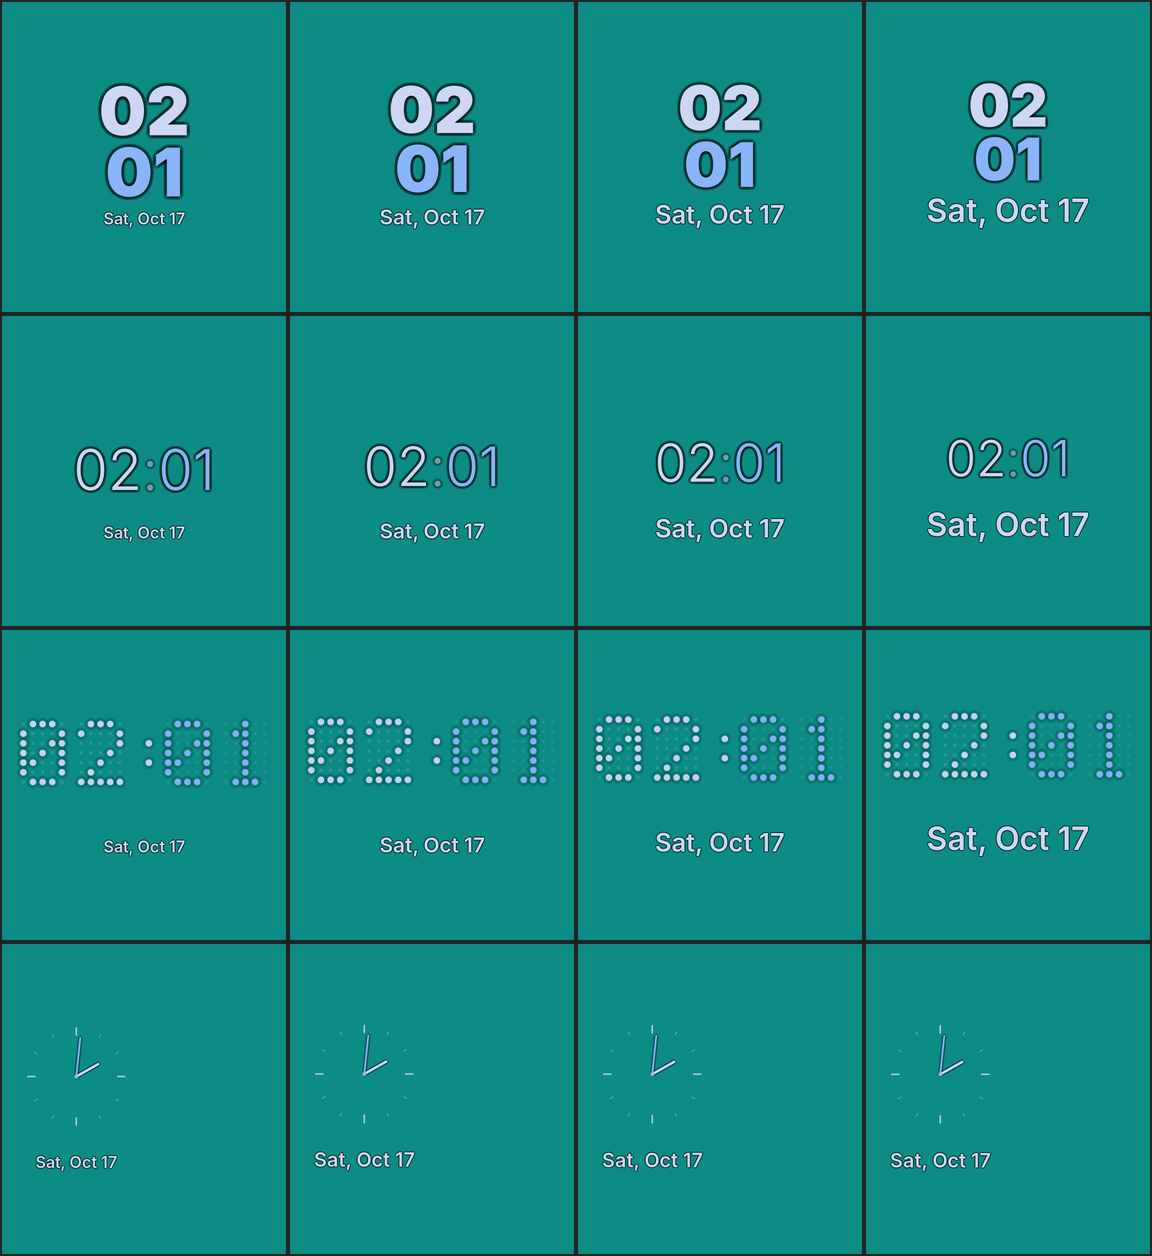
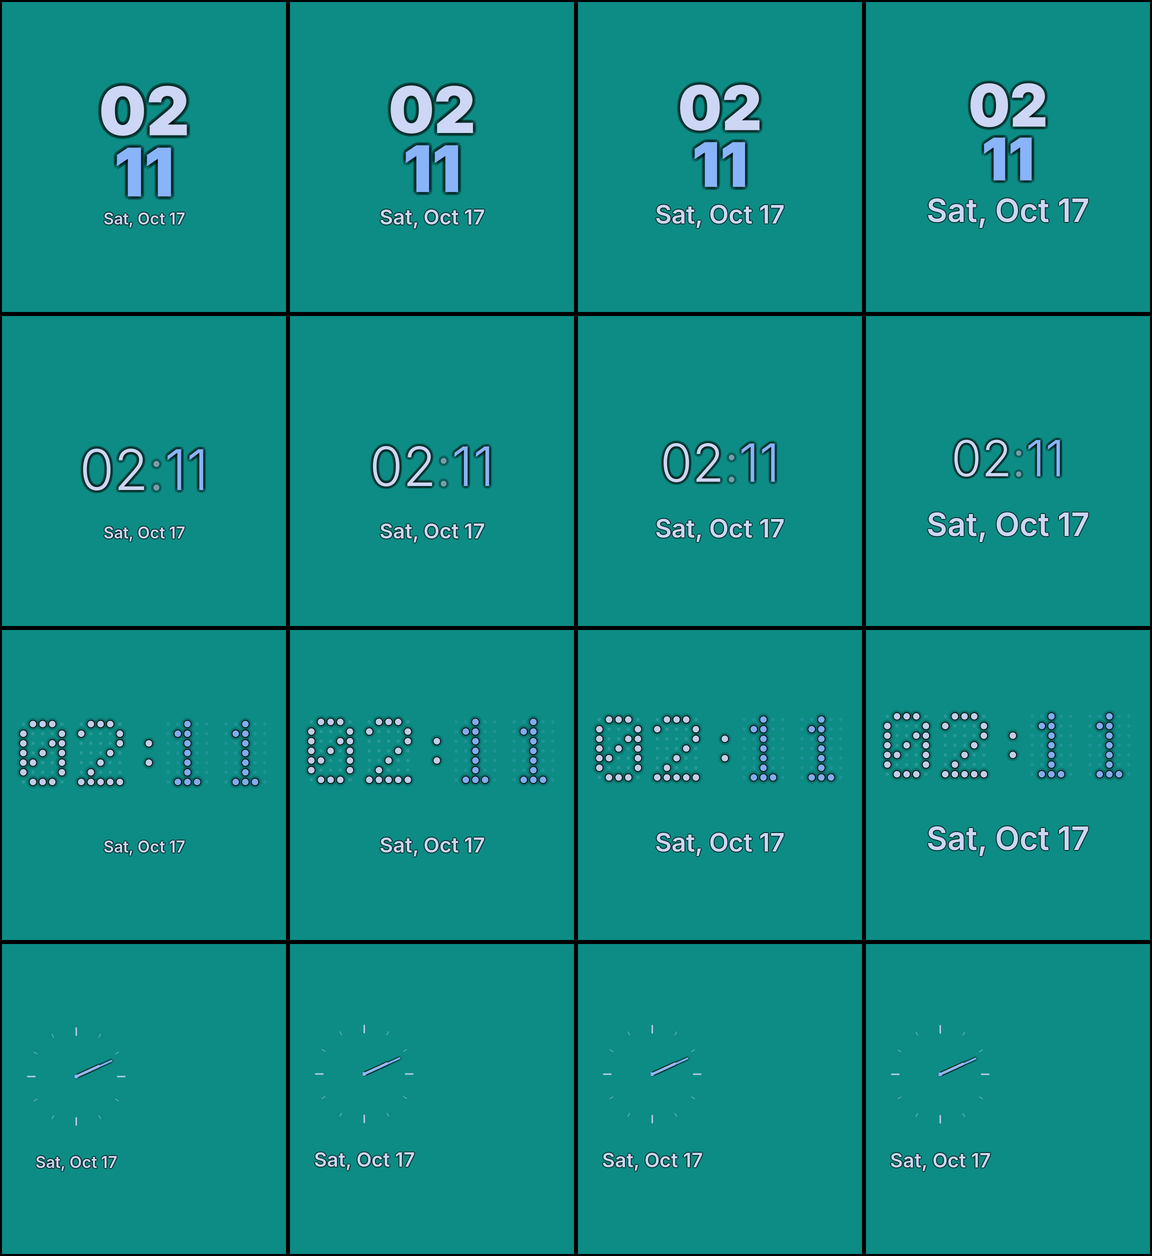
Clock dot matrix: a halo-colour ring on each lit dot (visual language 1.4)
Over the retro-82 vinyl the orange minute dots vanished into the orange
label. A crisp ring in the halo colour keeps them apart, like the Bubble
outline. The three host sheets are re-rendered from the same generations.

diff --git a/nix/rust-shell-client/src/render.rs b/nix/rust-shell-client/src/render.rs
@@ -4047,6 +4047,13 @@ fn draw_dot_matrix_glyph(cr: &Context, rows: &[&str], cols: usize, x0: f64, y0: 
                 continue;
             }
             draw_soft_backdrop(cr, cx, cy, radius * 1.9, glow, 0.16);
+            // A crisp ring in the halo colour keeps a lit dot apart from a
+            // wallpaper of its own hue (the accent minute over an orange
+            // label), the way the Bubble digits keep their outline.
+            cr.new_path();
+            cr.arc(cx, cy, radius + (pitch * 0.1).max(1.5), 0.0, std::f64::consts::TAU);
+            color(cr, glow, 0.8);
+            let _ = cr.fill();
             cr.new_path();
             cr.arc(cx, cy, radius, 0.0, std::f64::consts::TAU);
             color(cr, rgb, 0.95);

diff --git a/docs/blob-inventory.md b/docs/blob-inventory.md
@@ -1678,9 +1678,9 @@ DATA ee2ee568349d2934b8b8c6950b9278d9b0f41203f6b71ced033796e4bcbc8974 docs/evide
 DATA a030cb1e75d983468dc23384351c0c4c411dac03ff5db25022e8f62bf3cf37c2 docs/evidence/clock-restyle/host-160-before-after.png
 DATA e590ff3c14c7c08eeba6acc7ec745eb5f63e4e0b0ad46a88ecdad3d0903069ad docs/evidence/clock-restyle/host-200-before-after.png
 DATA 9e258d5a07a483381d428302c67f39a9d8a799d94461e51d1ea4a86604f27f22 docs/evidence/clock-restyle/host-200-high-before-after.png
-DATA 8ef2262820967a6860dc429672f3b6de4b8b47fafa20e2f506843eeb06818bdb docs/evidence/clock-restyle/host-latte.png
-DATA d7c879ee3f5f9a7a625d015ecba9a7e4daaff9db7949ef6ba11ba48619643ce0 docs/evidence/clock-restyle/host-portrait-steps.png
-DATA 214a3187ff02f0662ca4a963ad35198af695f785889764a2d318920defad2585 docs/evidence/clock-restyle/host-retro82-wallpaper.png
+DATA 928965287512f34e9111f2428f00d97aed21ba3668557aed880f1d87cf336439 docs/evidence/clock-restyle/host-latte.png
+DATA 8e3fc56d90f9fb9b02d709dec1384e37a0b07dc2c6574334f2f3bcb80f0b5db8 docs/evidence/clock-restyle/host-portrait-steps.png
+DATA c8862c1934628c68c99651f932dc05a6078b6a9e1504ef8d2b5df9de63e1e177 docs/evidence/clock-restyle/host-retro82-wallpaper.png
 DATA eb97830d3b2c407b8a1a9559f4547c5faf30a528c36085c065ede0d2971e5eb6 docs/evidence/coherent-shell/accessibility-scale/board/01-settings.png
 DATA 067bdb088d7d3b137a2586058819ab40830bef98aab4bf2daca440413794e7a6 docs/evidence/coherent-shell/accessibility-scale/board/02-vision-default.png
 DATA 1052f94fa56517b0116ce10500455c31e71e37504080bdea57fe91a6eff8d4f1 docs/evidence/coherent-shell/accessibility-scale/board/03-large.png
@@ -2398,9 +2398,9 @@ limits are in the adjacent README. They are not physical-panel captures.
[12 lines of base64/hex data omitted]

diff --git a/docs/evidence/clock-restyle/README.md b/docs/evidence/clock-restyle/README.md
@@ -137,13 +137,19 @@ What the images show:
 - Portrait: all four styles fit the 568 px width at every step; no clipping.
   The dot-matrix clock nearly fills the width at 200%. The date grows with the
   step. The analog clock is small and sits left in its cell in portrait.
-- retro-82 over the vinyl: the Bubble and Thin minutes in the orange accent
-  stay readable because of the dark halo, including over the orange label.
-  The dot-matrix minute is the weak case: its orange dots over the orange
-  label have little contrast against the backdrop (only the faint halo rings
-  separate them), and they get worse where they cross the spindle. The hour and
-  date in cream read well. The Thin minute at 200% is thin and reads only by
-  its halo outline.
+- retro-82 over the vinyl:
+  - The Bubble and Thin minutes, in the orange accent, stay readable because
+    of the dark halo, including over the orange label. The Thin minute at
+    200% is thin and reads mainly by its halo outline.
+  - The first renders showed the dot-matrix minute as the weak case: orange
+    dots over the orange label, separated only by faint soft halos.
+    `draw_dot_matrix_glyph` now gives each lit dot a crisp ring in the halo
+    colour (`pitch * 0.1`, at least 1.5 px, at 80%). The re-rendered sheet
+    shows the minute dots outlined and legible at every step, including
+    where they cross the spindle.
+  - The analog style's cream hour ticks are faint over the orange label;
+    its hands keep their halo and read.
+  - The hour and date, in cream, read well.
 - catppuccin-latte over the pastel wallpaper: the hour is dark and the minute
   is the saturated blue accent, both clearly legible at all steps and styles.
   The halo is a light tone and is not visible on this light wallpaper; it is
@@ -152,4 +158,4 @@ What the images show:
 Limits: host renders only. The wallpaper is scaled to cover and is not the
 panel's exact crop or the shell's wallpaper pipeline. The clock is in slot 0
 only, so its position over the vinyl is not where a user would place it.
-Task 1.4 is not ticked because of the dot-matrix minute over the orange label.
+The sheets were re-rendered after the dot-ring change, from the same generations.

diff --git a/openspec/changes/the-shell-has-one-visual-language/tasks.md b/openspec/changes/the-shell-has-one-visual-language/tasks.md
@@ -20,14 +20,17 @@
   after adding a portrait size. Host class.
   Done 2026-10-17 (host): `CLOCK_SIZE=portrait`;
   `docs/evidence/clock-restyle/host-portrait-steps.png`.
-- [ ] 1.4 Renders over a real wallpaper and in a light theme (for example a
+- [x] 1.4 Renders over a real wallpaper and in a light theme (for example a
   retro-82 and a catppuccin-latte generation) to confirm the halo on the
   accent minute. Host class.
   Renders done 2026-10-17 (host): `host-retro82-wallpaper.png` and
   `host-latte.png` in `docs/evidence/clock-restyle/`. Latte is legible. Over
   the retro-82 vinyl the Bubble and Thin minutes read through the halo, but
-  the dot-matrix minute over the orange label is weak, so this stays open
-  until that is judged or fixed.
+  the dot-matrix minute over the orange label was weak.
+  Done 2026-10-17 (host): each lit dot now has a crisp ring in the halo
+  colour. The re-rendered sheets show the dot-matrix minute legible over
+  the label at every step. The analog ticks remain faint there; the hands
+  read.
 
 ## 2. Type scale and spacing
 
